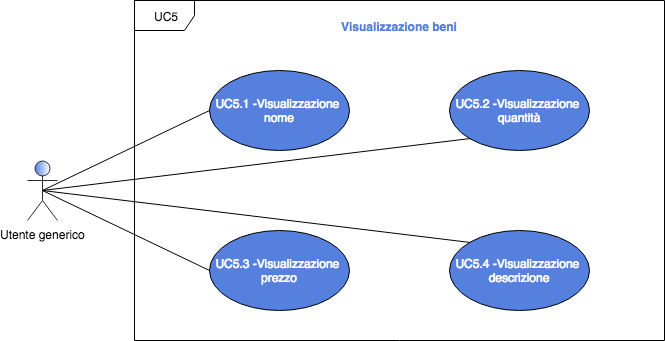
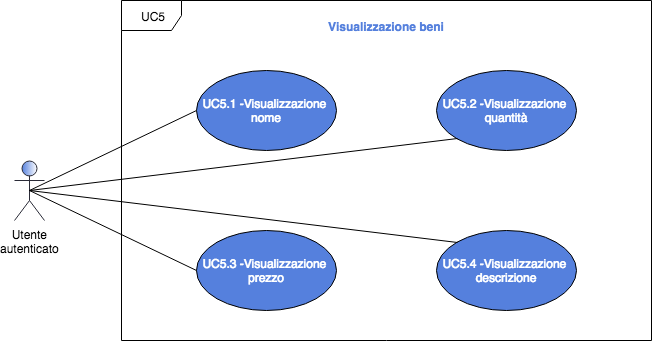
fix UC5 e UC6
UC5: da utente generico ad utente autenticato;

UC6: separazione sottocasi UC6.2 da UC6 nel diagramma UML

diff --git a/RR/Esterni/Analisi_dei_requisiti/res/sections/UC/UC5-Visualizzazione-beni.tex b/RR/Esterni/Analisi_dei_requisiti/res/sections/UC/UC5-Visualizzazione-beni.tex
@@ -5,7 +5,7 @@
  	\caption{UC5 - Visualizzazione beni}
  \end{figure}
  \begin{itemize}
- 	\item \textbf{Attori Primari}: utente generico;
+ 	\item \textbf{Attori Primari}: utente autenticato;
  	\item \textbf{Descrizione}: l'utente visualizza una lista dettagliata di informazioni relative ad un bene o servizio;
  	\item \textbf{Scenario}: l'utente si trova all'interno della pagina di un bene o servizio e può trarre le seguenti informazioni:
  		\begin{enumerate}[label=\alph*.]
@@ -19,7 +19,7 @@
  \end{itemize}
  \subsubsection{UC5.1 - Visualizzazione nome}
 \begin{itemize}
-	\item \textbf{Attori Primari}: utente generico;
+	\item \textbf{Attori Primari}: utente autenticato;
 	\item \textbf{Descrizione}: l'utente visualizza il nome del bene o del servizio;
 	\item \textbf{Scenario}: l'utente si trova all'interno della pagina di un bene o servizio;
 	\item \textbf{Precondizione}: l'utente ha espresso la volontà di visualizzare la pagina di un bene o un servizio;
@@ -27,7 +27,7 @@
 \end{itemize}
  \subsubsection{UC5.2 - Visualizzazione quantità}
 \begin{itemize}
-	\item \textbf{Attori Primari}: utente generico;
+	\item \textbf{Attori Primari}: utente autenticato;
 	\item \textbf{Descrizione}: l'utente visualizza la quantità del bene o del servizio selezionato;
 	\item \textbf{Scenario}: l'utente si trova all'interno della pagina di un bene o servizio;
 	\item \textbf{Precondizione}: l'utente ha espresso la volontà di visualizzare la pagina di un bene o un servizio;
@@ -35,7 +35,7 @@
 \end{itemize}
  \subsubsection{UC5.3 - Visualizzazione prezzo}
 \begin{itemize}
-	\item \textbf{Attori Primari}: utente generico;
+	\item \textbf{Attori Primari}: utente autenticato;
 	\item \textbf{Descrizione}: l'utente visualizza il prezzo del bene o del servizio;
 	\item \textbf{Scenario}: l'utente si trova all'interno della pagina di un bene o servizio;
 	\item \textbf{Precondizione}: l'utente ha espresso la volontà di visualizzare la pagina di un bene o un servizio;
@@ -43,7 +43,7 @@
 \end{itemize}
  \subsubsection{UC5.4 - Visualizzazione descrizione}
 \begin{itemize}
-	\item \textbf{Attori Primari}: utente generico;
+	\item \textbf{Attori Primari}: utente autenticato;
 	\item \textbf{Descrizione}: l'utente visualizza la descrizione del bene o del servizio;
 	\item \textbf{Scenario}: l'utente si trova all'interno della pagina di un bene o servizio;
 	\item \textbf{Precondizione}: l'utente ha espresso la volontà di visualizzare la pagina di un bene o un servizio;

diff --git a/RR/Esterni/Analisi_dei_requisiti/res/sections/UC/UC6-Gestione-carrello.tex b/RR/Esterni/Analisi_dei_requisiti/res/sections/UC/UC6-Gestione-carrello.tex
@@ -1,6 +1,6 @@
 \subsubsection{UC6 - Gestione Carrello}
  \begin{figure}[h]
-	\includegraphics[width=10cm]{res/images/UC6GestioneCarrello.png}
+	\includegraphics[width=9cm]{res/images/UC6GestioneCarrello.png}
 	\centering
 	\caption{UC6 - Gestione carrello}
 \end{figure}
@@ -25,6 +25,11 @@
 	\item \textbf{Postcondizione}: nel carrello dell'utente è presente il bene o il servizio in quantità definite dall'utente stesso nella fase di visualizzazione della pagina del bene o del servizio in questione [UC5].
 \end{itemize}
  \subsubsection{UC6.2 - Visualizzazione prodotti del carrello}
+  \begin{figure}[h]
+ 	\includegraphics[width=7cm]{res/images/UC6-2VisualizzazioneProdottiCarrello.png}
+ 	\centering
+ 	\caption{UC6.2 - Visualizzazione prodotti del carrello}
+ \end{figure}
 \begin{itemize}
 	\item \textbf{Attori Primari}: cittadino, azienda\glo;
 	\item \textbf{Descrizione}: l'utente visualizza un riepilogo di tutti i prodotti presenti all'interno el proprio carrello;
